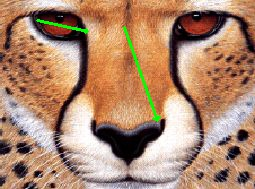
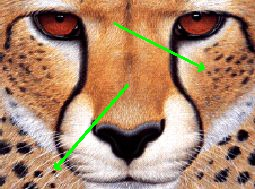
add feature image

Changed region(s): [[0.4392, 0.1058, 0.8235, 0.6614], [0.1922, 0.4233, 0.5216, 0.9259], [0.1373, 0.0794, 0.3569, 0.1852]]

diff --git a/hw2/hw2.py b/hw2/hw2.py
@@ -42,14 +42,14 @@ def draw_line(event, x, y, flags, param):
         ix, iy = x, y  # Store the initial point
     elif event == cv2.EVENT_MOUSEMOVE:  # Mouse move
         if drawing:  # Draw only when the mouse is pressed
-            img_copy = param.img.copy()  # Make a copy to avoid drawing permanent lines
+            img_copy = param.featureimg.copy()  # Make a copy to avoid drawing permanent lines
             cv2.line(img_copy, (ix, iy), (x, y), (0, 255, 0), 2)
             cv2.imshow(param.window_name, img_copy)  # Display the copy
     elif event == cv2.EVENT_LBUTTONUP:  # Left mouse button released
         drawing = False  # End drawing
         # Draw the final line on the original image with an arrow
-        cv2.arrowedLine(param.img, (ix, iy), (x, y), (0, 255, 0), 2, tipLength=0.05)
-        cv2.imshow(param.window_name, param.img)  # Display the image with the final line
+        cv2.arrowedLine(param.featureimg, (ix, iy), (x, y), (0, 255, 0), 2, tipLength=0.05)
+        cv2.imshow(param.window_name, param.featureimg)  # Display the image with the final line
 
         param.lines.append(((ix, iy), (x, y)))
         # print(f"Line drawn in {param.window_name}: {param.lines}")
@@ -65,8 +65,7 @@ def show_image(img_data):
     cv2.imshow(img_data.window_name, img_data.img)  # Show the image
     cv2.waitKey(0)  # Wait for a key press
     cv2.destroyWindow(img_data.window_name)  # Close the window when done
-    
-    cv2.imwrite(f"{img_data.window_name}.jpg",img_data.img) # save the modified image
+    cv2.imwrite(f"{img_data.window_name}.jpg",img_data.featureimg) # save the modified image
     # show_point(img_data)
 
 def process_img(image_path, image_title):
@@ -94,11 +93,7 @@ def bilinear(img, point, h, w):
     
 def warp(src, dst, P1, Q1, P2, Q2, alpha=0.4):
     assert len(P1)==len(Q1)==len(P2)==len(Q2)
-    
-    
-    # print(src.img.shape, dst.img.shape)
-    # result, Pd, Qd = v(src.img, dst.img, P1, Q1, P2, Q2, ratio=alpha)
-    # return result
+
 
 if __name__ == "__main__":
     if len(sys.argv) < 3:
